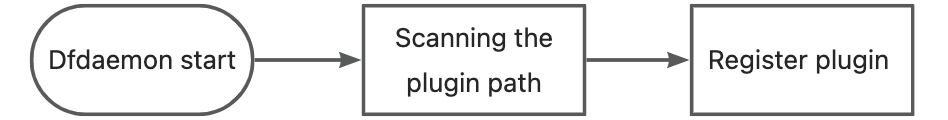
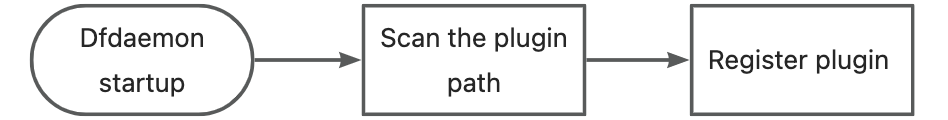
change the plugin description

diff --git a/systems-analysis/client-backend-plugin/README.md b/systems-analysis/client-backend-plugin/README.md
@@ -2,21 +2,19 @@
 
 ### Introduction
 
-This document describes the use of a plugin for the Dragonlfy client backend. It instructs developers to use the plugin to enable Dragonfly to support additional backends, such as dfs, without having to break into Dragonlfy to make code changes.
+This document describes the use of a plugin for the Dragonfly client backend. It instructs developers to use the plugin to enable Dragonfly to support additional backends.
 
 ### Usage
 
-The plugin for backend works as a `lib{plugin-name}.so` dynamic link library. Here are the steps to use it:
+The backend plugin is a dynamic link library, named in the format `lib{plugin-name}.so`.
 
-**1. Plugin put in the specified path**
+**1. Put the plugin into the plugin directory**
 
-After the plugin is built, it needs to be stored in the `/usr/local/lib/dragonfly/plugins/dfdaemon/backend` path by default. This can be changed in [dfdaemon config](https://d7y.io/docs/next/reference/configuration/client/dfdaemon/).
+After the plugin is built, it needs to be put into the `/usr/local/lib/dragonfly/plugins/dfdaemon/backend` path by default. This can be changed in the [dfdaemon config](https://d7y.io/docs/next/reference/configuration/client/dfdaemon/). `dfdaemon` does not support hot reloading of plugins.
 
-Dfdaemon loads plugins only at startup, so you need to restart dfdaemon after adding a new plugin.
+**2. Loading Plugins**
 
-**2. Dfdaemon loading plugin**
-
-When dfdaemon starts, the following logs are included in the dfdaemon startup log, which means that the plugin was loaded successfully.
+A successful plugin load will produce the following log messages:
 
 ```
 INFO  load [<plugin-name>] plugin backend
@@ -32,12 +30,11 @@ dfget <plugin-name>://<host>:<port>/<path> --output /tmp/file.txt
 
 ### Details
 
-Before development, please refer to [Dragonfly Client](https://github.com/dragonflyoss/client/tree/main) for the [dragonfly-client-backend/examples/plugin](https://github.com/dragonflyoss/client/tree/main/dragonfly-client-backend/examples/plugin) module.
+Before you begin development, refer to the [plugin examples](https://github.com/dragonflyoss/client/tree/main/dragon-client-backend/examples/plugin) for guidance.
 
-There is no need to change the code of Dragonfly Client during development. Two interfaces of Backend is important for you to implemet, `head` and `get`.
+The backend plugin requires the implementation of two main interfaces: `head` and `get`.
 
-`head` is used to get metadata information about the task.
-
+`head` is used to get metadata of the task.
 - For single file downloads, this refers to retrieving metadata such as the file size.
 
 - For directory downloads, it retrieves information about all files in the current directory and its subdirectories, including their file paths and sizes.
@@ -48,8 +45,7 @@ async fn head(&self, request: HeadRequest) -> Result<HeadResponse> {
 }
 ```
 
-`get` is used to download the corresponding piece of task.
-
+`get` is used to download the content of piece.
 ```rust
 async fn get(&self, request: GetRequest) -> Result<GetResponse<Body>> {
     ...
@@ -60,18 +56,20 @@ async fn get(&self, request: GetRequest) -> Result<GetResponse<Body>> {
 
 **Plugin Registration**
 
-Upon startup, dfdaemon scans the plugin path. If plugins are found, they are registered; otherwise, this step is skipped.
+Upon startup, `dfdaemon` scans the plugin path.
+
+If plugins are found, they are registered. Otherwise, this step is skipped.
 
 ![](./register-plugin.jpg)
 
 **Download File**
 
-During file download, dfdaemon first heads the file size through plugin. The file is then divided into multiple pieces based on its size, and each piece establishes an independent download task through the plugin.
+During file download, `dfdaemon` first heads the file metadata through plugin. The file is split into multiple pieces based on its size, with each piece downloaded independently via the plugin's get request.
 
 ![](./download-file.jpg)
 
 **Download Directory**
 
-When downloading a directory, dfget use dfdaemon first head metadata for all files within that directory, including their url path and size. If the user specifies the `include-files` parameter, dfget filters for the files. Finally, it iterates through each remaining file to establish individual download requests.
+During directory download, `dfdaemon` first heads the metadatas through plugin for all files in the directory, then each file download creates a separate download request.
 
 ![](./download-directory.jpg)
